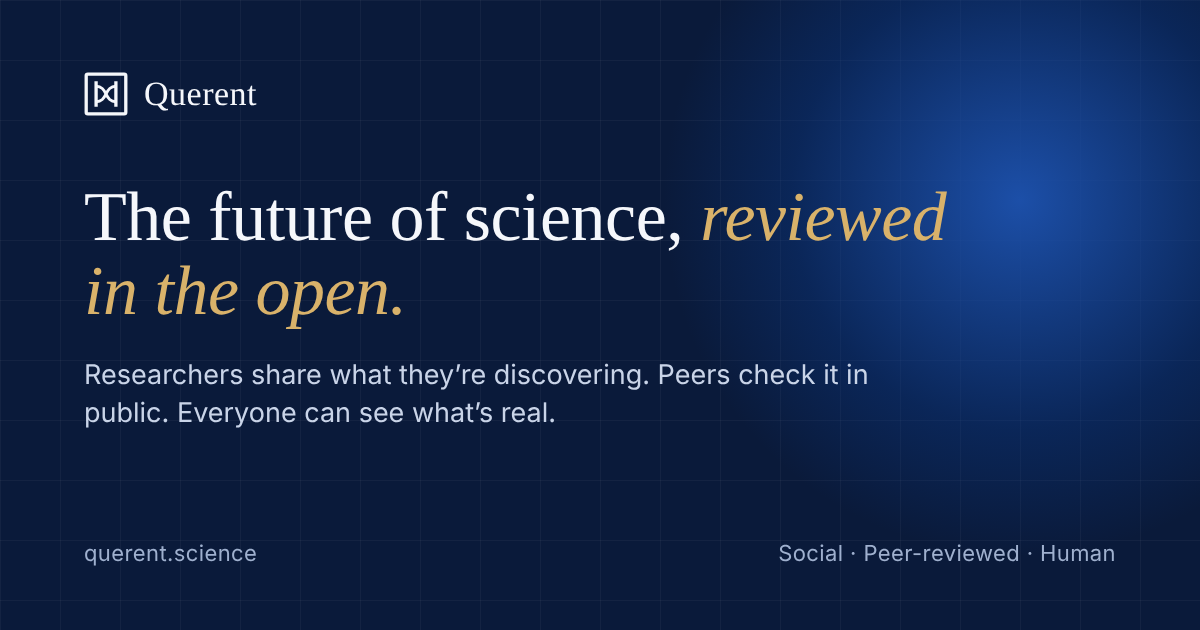
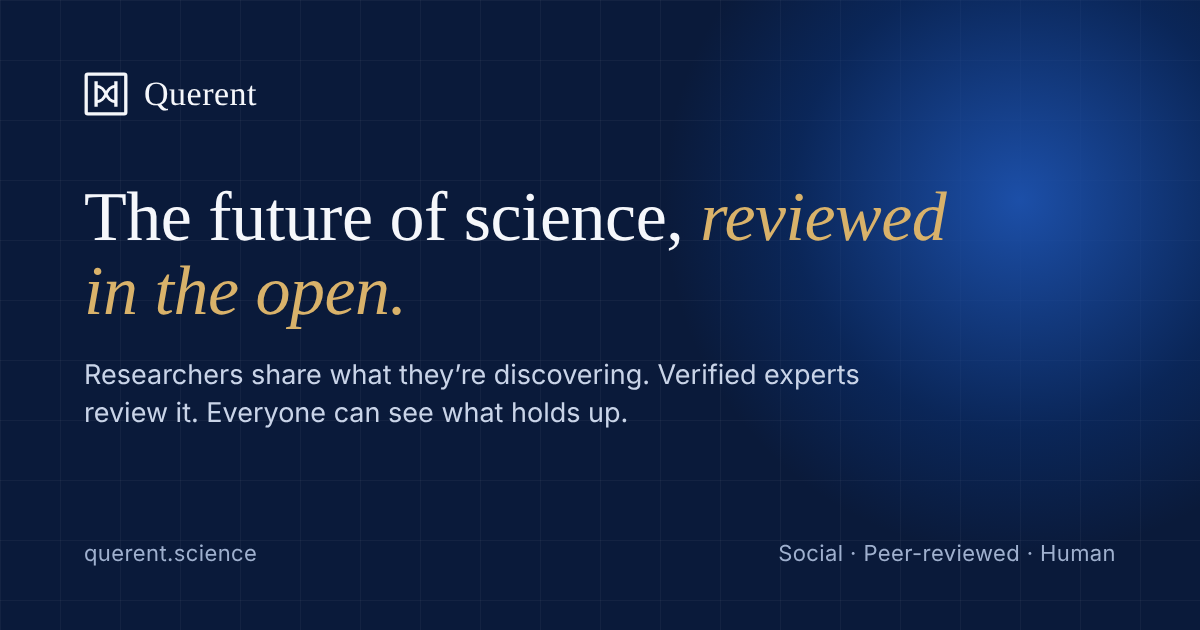
Pitch line: 'Verified experts review it. Everyone can see what holds up.'
Claude-Session: https://claude.ai/code/session_017ywLA7GWTMmgR7YtKmrEWX

Changed region(s): [[0.0617, 0.6333, 0.5242, 0.6937], [0.5242, 0.573, 0.74, 0.6333]]

diff --git a/public/welcome.html b/public/welcome.html
@@ -4,19 +4,19 @@
 <meta charset="utf-8">
 <meta name="viewport" content="width=device-width,initial-scale=1,viewport-fit=cover">
 <title>Querent — The future of science, reviewed in the open</title>
-<meta name="description" content="Researchers share what they’re discovering. Peers check it in public. Everyone can see what’s real.">
+<meta name="description" content="Researchers share what they’re discovering. Verified experts review it. Everyone can see what holds up.">
 <meta property="og:type" content="website">
 <meta property="og:site_name" content="Querent">
 <meta property="og:url" content="https://querent.science/welcome">
 <meta property="og:title" content="Querent — The future of science, reviewed in the open">
-<meta property="og:description" content="Researchers share what they’re discovering. Peers check it in public. Everyone can see what’s real.">
+<meta property="og:description" content="Researchers share what they’re discovering. Verified experts review it. Everyone can see what holds up.">
 <meta property="og:image" content="https://querent.science/og.png">
 <meta property="og:image:width" content="1200">
 <meta property="og:image:height" content="630">
 <meta property="og:image:alt" content="Querent — The future of science, reviewed in the open.">
 <meta name="twitter:card" content="summary_large_image">
 <meta name="twitter:title" content="Querent — The future of science, reviewed in the open">
-<meta name="twitter:description" content="Researchers share what they’re discovering. Peers check it in public. Everyone can see what’s real.">
+<meta name="twitter:description" content="Researchers share what they’re discovering. Verified experts review it. Everyone can see what holds up.">
 <meta name="twitter:image" content="https://querent.science/og.png">
 <style>html{color-scheme:light}body{margin:0}img{max-width:100%}[hidden]{display:none!important}</style>
 </head>

diff --git a/src/app/layout.tsx b/src/app/layout.tsx
@@ -9,7 +9,7 @@ import { NavLink } from "@/components/client";
 import { signOutAction } from "./actions";
 
 const TAGLINE = "The future of science, reviewed in the open";
-const PITCH = "Researchers share what they’re discovering. Peers check it in public. Everyone can see what’s real.";
+const PITCH = "Researchers share what they’re discovering. Verified experts review it. Everyone can see what holds up.";
 
 export const metadata: Metadata = {
   metadataBase: new URL(process.env.APP_URL || "https://querent.science"),
